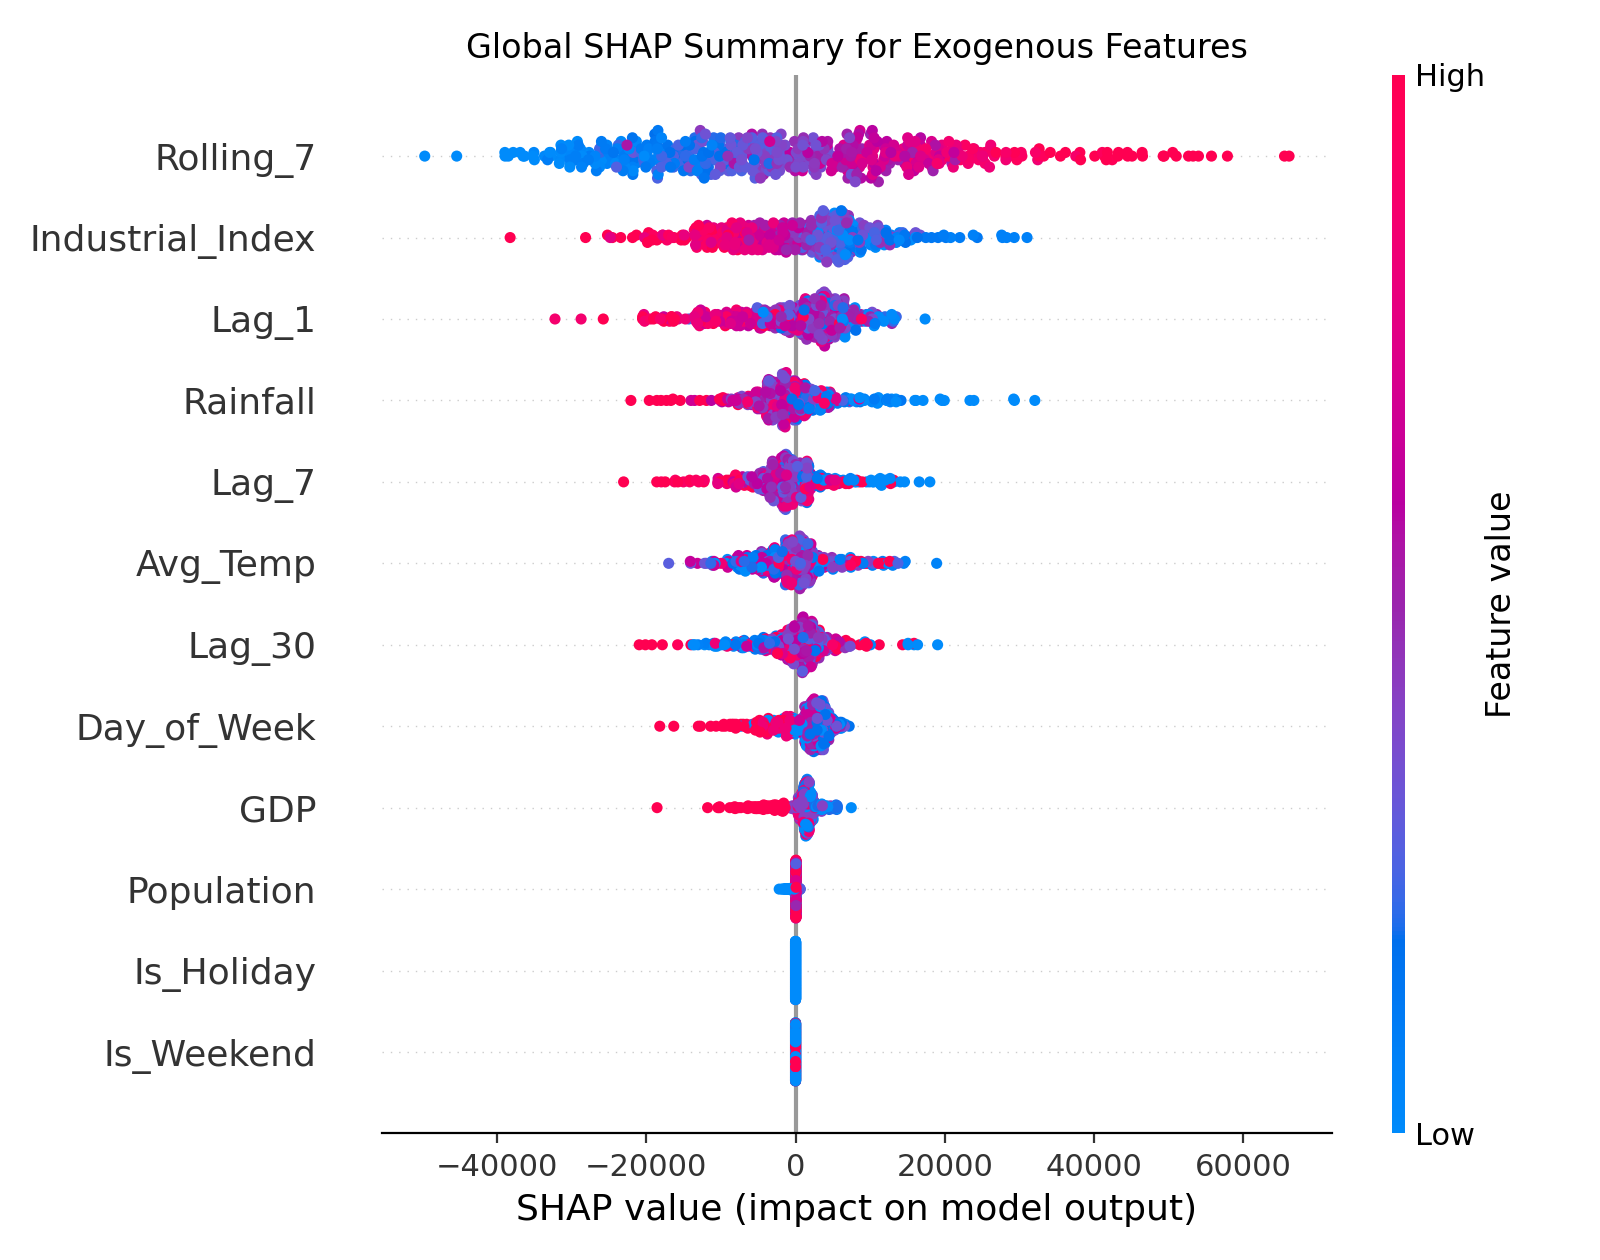
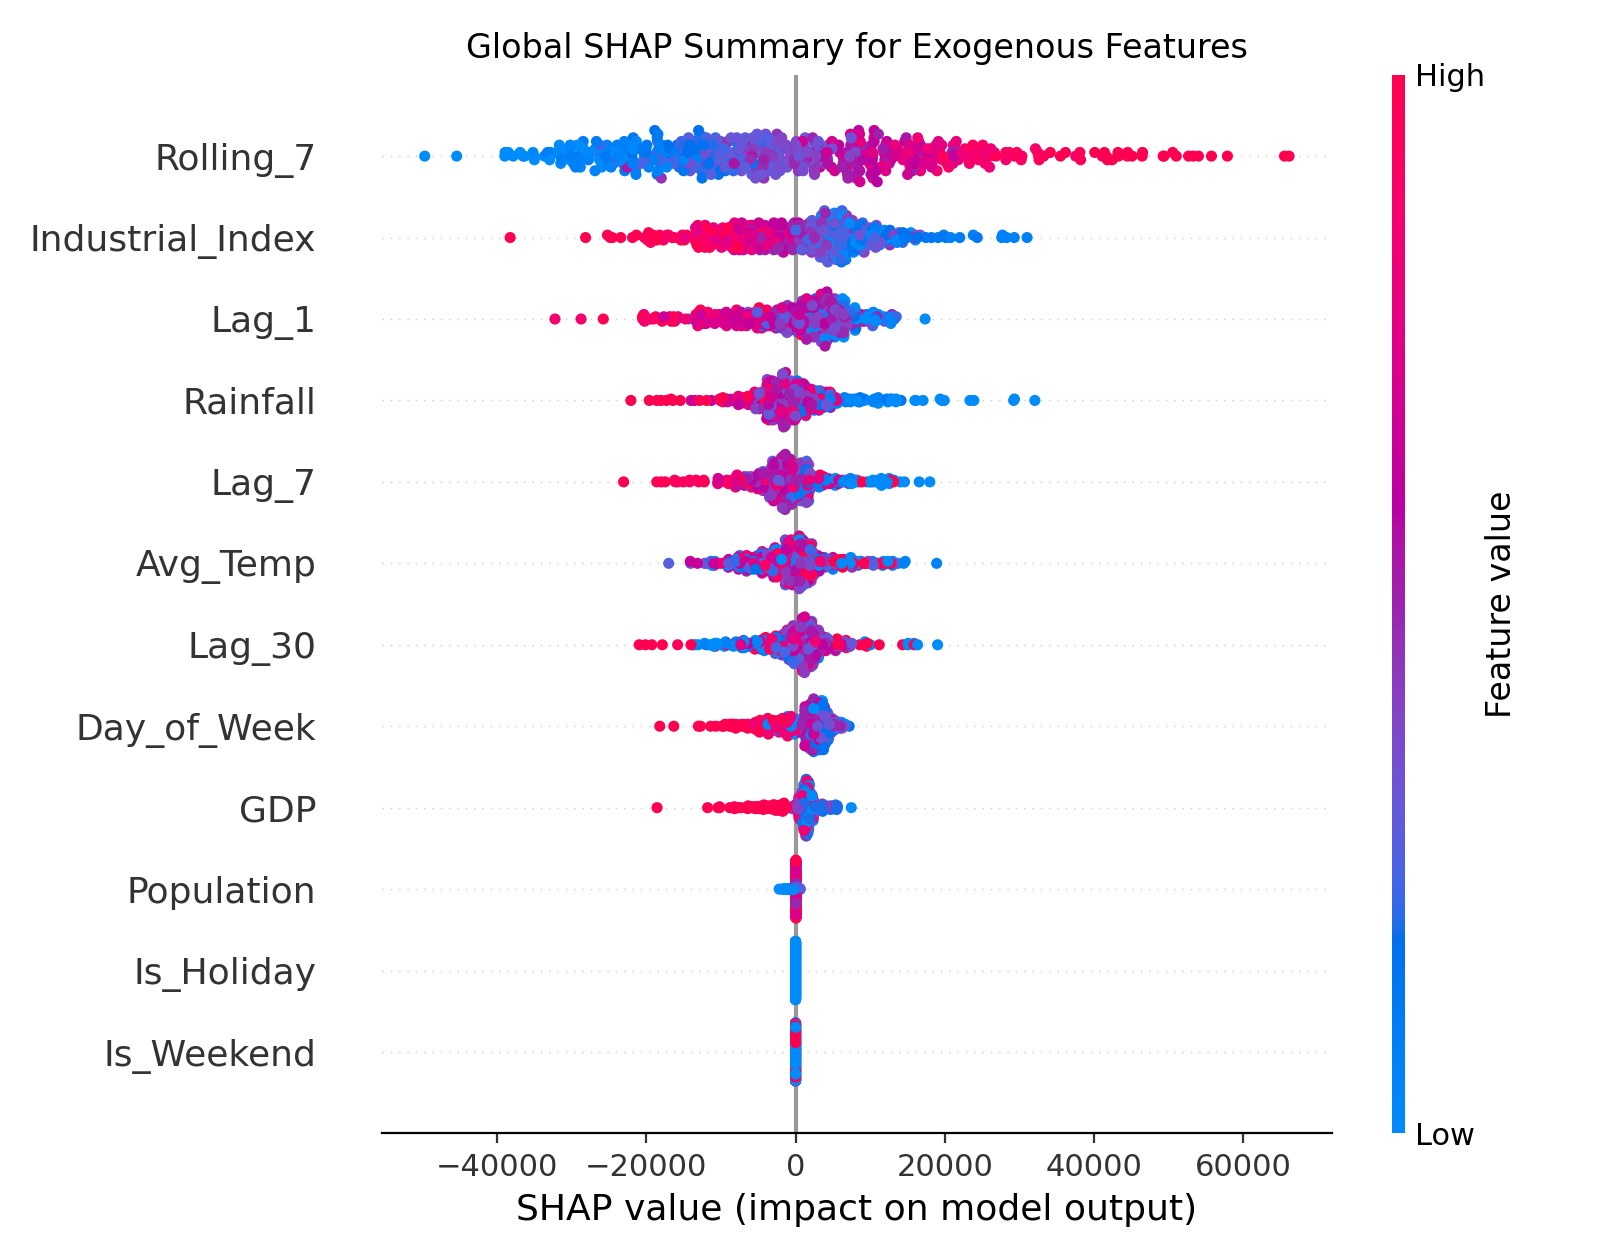
test

Changed region(s): [[0.3438, 0.0929, 0.625, 0.681], [0.4688, 0.8048, 0.5, 0.8667], [0.4688, 0.681, 0.5, 0.7119]]

diff --git a/dashboard.py b/dashboard.py
@@ -4,26 +4,18 @@ import pandas as pd
 import plotly.graph_objects as go
 import matplotlib.pyplot as plt
 import joblib
+import shap
+import holidays
 from prophet import Prophet
 
-# ==========================================
-# 1. PAGE CONFIG & ARCHITECTURE SETUP
-# ==========================================
 st.set_page_config(page_title="Electricity Demand XAI Dashboard", layout="wide")
 st.title("⚡ Grid Demand Forecasting & Anomaly Detection")
-st.markdown("""
-This dashboard demonstrates a three-tier hybrid architecture: 
-**Prophet** for structural baselines, **LightGBM** for weather/macro-driven residuals, and **Isolation Forest** for black-swan anomaly detection.
-""")
+st.markdown("*Hybrid Architecture: Prophet (Baseline) + LightGBM (Residuals) + Isolation Forest (Anomaly)*")
 
-# Setup relative paths so it runs anywhere
 script_dir = os.path.dirname(os.path.abspath(__file__))
 models_dir = os.path.join(script_dir, 'Models')
 data_path = os.path.join(script_dir, 'Outputs', 'dataset_daily_with_predictions.csv')
 
-# ==========================================
-# 2. CACHED DATA & MODEL LOADING
-# ==========================================
 @st.cache_resource
 def load_models():
     prophet_model = joblib.load(os.path.join(models_dir, 'prophet_model.joblib'))
@@ -33,7 +25,6 @@ def load_models():
 
 @st.cache_data
 def load_and_prep_data():
-    # Read the NEW file generated by the training script
     df = pd.read_csv(data_path)
     df['Date'] = pd.to_datetime(df['Date'])
     return df
@@ -45,13 +36,6 @@ except FileNotFoundError as e:
     st.error(f"Missing required file: {e}")
     st.stop()
 
-# ==========================================
-# 3. COMPONENT 1: SYSTEM VALIDATION & ANOMALIES
-# ==========================================
-st.header("1. System Validation & Anomaly Detection")
-st.markdown("*Tracking actual demand against the hybrid prediction, with Isolation Forest flagging structural grid failures.*")
-
-# The exact 12 features the IsoForest was trained on
 iso_features = [
     'Day_of_Week', 'Is_Weekend', 'Is_Holiday', 
     'Avg_Temp', 'Rainfall', 
@@ -59,51 +43,185 @@ iso_features = [
     'GDP', 'Population', 'Industrial_Index'
 ]
 
-# Ensure we only predict on rows that have all features (no NaNs from lags)
 df_clean = df.dropna(subset=iso_features + ['Demand_MWh', 'Hybrid_Prediction']).copy()
-
-# Predict Anomalies (-1 is anomaly, 1 is normal)
 df_clean['Anomaly_Score'] = iso_forest.predict(df_clean[iso_features])
-anomalies = df_clean[df_clean['Anomaly_Score'] == -1]
 
-# Build Plotly Chart
-fig_main = go.Figure()
-fig_main.add_trace(go.Scatter(x=df_clean['Date'], y=df_clean['Demand_MWh'], mode='lines', name='Actual Demand', line=dict(color='blue')))
-fig_main.add_trace(go.Scatter(x=df_clean['Date'], y=df_clean['Hybrid_Prediction'], mode='lines', name='Hybrid Prediction', line=dict(color='orange', dash='dash')))
-fig_main.add_trace(go.Scatter(
-    x=anomalies['Date'], y=anomalies['Demand_MWh'], mode='markers', name='Grid Anomaly Detected',
-    marker=dict(color='red', size=10, symbol='x', line=dict(color='black', width=1)),
-    hovertemplate="<b>Date:</b> %{x}<br><b>Demand:</b> %{y}<extra>Anomaly</extra>"
-))
-fig_main.update_layout(height=500, template='plotly_white', hovermode='x unified')
-st.plotly_chart(fig_main, use_container_width=True)
+feature_dict = {
+    'Day_of_Week': 'Siklus Hari (Day_of_Week)',
+    'Is_Weekend': 'Status Akhir Pekan (Is_Weekend)',
+    'Is_Holiday': 'Status Hari Libur (Is_Holiday)',
+    'Avg_Temp': 'Suhu Rata-Rata (Avg_Temp)',
+    'Rainfall': 'Curah Hujan (Rainfall)',
+    'Lag_1': 'Beban H-1 (Lag_1)',
+    'Lag_7': 'Beban Minggu Lalu (Lag_7)',
+    'Lag_30': 'Beban Bulan Lalu (Lag_30)',
+    'Rolling_7': 'Tren Rata-rata 7 Hari (Rolling_7)',
+    'GDP': 'Kapasitas Makroekonomi (GDP)',
+    'Population': 'Estimasi Populasi (Population)',
+    'Industrial_Index': 'Indeks Industri (Industrial_Index)'
+}
 
-st.divider()
+feature_desc = {
+    'Day_of_Week': 'Siklus operasional mingguan (Senin-Minggu) yang membedakan ritme aktivitas masyarakat.',
+    'Is_Weekend': 'Mengurangi beban dasar secara signifikan karena perkantoran dan pasar tutup.',
+    'Is_Holiday': 'Penurunan drastis beban listrik akibat libur nasional/tanggal merah secara serentak.',
+    'Avg_Temp': 'Suhu harian; suhu tinggi memicu penggunaan AC (Cooling Demand) secara masif.',
+    'Rainfall': 'Curah hujan memengaruhi visibilitas aktivitas luar ruang dan menekan suhu lokal.',
+    'Lag_1': 'Inersia konsumsi dari 1 hari sebelumnya (Efek memori jangka pendek jaringan).',
+    'Lag_7': 'Cerminan historis pola beban pada hari yang sama persis di minggu sebelumnya.',
+    'Lag_30': 'Cerminan historis pola beban pada siklus bulanan sebelumnya.',
+    'Rolling_7': 'Garis pergerakan rata-rata beban selama seminggu terakhir untuk melihat tren halus.',
+    'GDP': 'Kekuatan ekonomi makro; daya beli berbanding lurus dengan serapan energi nasional.',
+    'Population': 'Jumlah penduduk yang menentukan batas bawah beban dasar (Base-Load) residensial.',
+    'Industrial_Index': 'Tingkat aktivitas manufaktur pabrik yang mengkonsumsi listrik bervoltase tinggi.'
+}
 
-# ==========================================
-# 4. COMPONENT 2: THE STRUCTURAL BASELINE
-# ==========================================
-st.header("2. The Structural Baseline (Prophet)")
-st.markdown("*Prophet extracts the core mathematical rhythm of the grid—isolating the overall trend and weekly seasonality independently of weather.*")
+tab1, tab2 = st.tabs(["📊 Validasi Sistem (Historis)", "🔮 Future Forecaster & Local XAI"])
 
-col1, col2 = st.columns([1, 1])
+with tab1:
+    st.header("1. System Validation & Anomaly Detection")
+    anomalies = df_clean[df_clean['Anomaly_Score'] == -1]
 
-with col1:
-    df_prophet = df_clean[['Date']].rename(columns={'Date': 'ds'})
-    forecast = prophet_model.predict(df_prophet)
+    fig_main = go.Figure()
+    fig_main.add_trace(go.Scatter(x=df_clean['Date'], y=df_clean['Demand_MWh'], mode='lines', name='Actual Demand', line=dict(color='blue')))
+    fig_main.add_trace(go.Scatter(x=df_clean['Date'], y=df_clean['Hybrid_Prediction'], mode='lines', name='Hybrid Prediction', line=dict(color='orange', dash='dash')))
+    fig_main.add_trace(go.Scatter(
+        x=anomalies['Date'], y=anomalies['Demand_MWh'], mode='markers', name='Grid Anomaly Detected',
+        marker=dict(color='red', size=10, symbol='x', line=dict(color='black', width=1)),
+        hovertemplate="<b>Date:</b> %{x}<br><b>Demand:</b> %{y}<extra>Anomaly</extra>"
+    ))
+    fig_main.update_layout(height=400, template='plotly_white', hovermode='x unified')
+    st.plotly_chart(fig_main, use_container_width=True)
     
-    fig_prophet = prophet_model.plot_components(forecast)
-    st.pyplot(fig_prophet)
+    col_a, col_b = st.columns(2)
+    with col_a:
+        st.subheader("Prophet Components")
+        df_prophet = df_clean[['Date']].rename(columns={'Date': 'ds'})
+        forecast = prophet_model.predict(df_prophet)
+        fig_prophet = prophet_model.plot_components(forecast)
+        st.pyplot(fig_prophet)
+    with col_b:
+        st.subheader("Global Feature Impact")
+        try:
+            st.image("output_xai.png", use_container_width=True)
+        except Exception:
+            st.info("No output_xai.png found.")
 
-# ==========================================
-# 5. COMPONENT 3: EXOGENOUS IMPACT (SHAP)
-# ==========================================
-with col2:
-    st.header("3. Exogenous Factor Impact")
-    st.markdown("*While Prophet sets the baseline, LightGBM calculates the exact MWh impact of weather, schedules, and macroeconomics.*")
+with tab2:
+    st.header("Prediksi Masa Depan & Penjelasan Keputusan (Local XAI)")
+    st.markdown("Masukkan input kondisi lingkungan. Sistem otomatis mendeteksi hari libur nasional Indonesia untuk memperkuat presisi prediksi.")
     
-    # Displaying your pre-rendered SHAP plot is safest for live demos
-    try:
-        st.image("output_xai.png", caption="Global SHAP Summary for Exogenous Features", use_container_width=True)
-    except Exception:
-        st.info("ℹ SHAP visualization not available. Generate it by running `Scripts/hybrid_model.py` to create the XAI analysis plot.")
+    col1, col2 = st.columns(2)
+    
+    # Inisialisasi kalender Indonesia
+    id_holidays = holidays.Indonesia()
+
+    with col1:
+        target_date = st.date_input("Pilih Tanggal Prediksi", value=pd.to_datetime("2026-08-17"))
+        
+        # Auto-deteksi Libur Nasional
+        is_auto_holiday = target_date in id_holidays
+        holiday_name = id_holidays.get(target_date) if is_auto_holiday else "Hari Kerja/Biasa (Bukan Libur Nasional)"
+        
+        st.info(f"📅 **Deteksi Sistem Kalender:** {holiday_name}")
+        
+        # Opsi override untuk What-If Scenario
+        is_holiday_override = st.checkbox("Paksa hitung sebagai Hari Libur Nasional (Simulasi Manual)", value=is_auto_holiday)
+        is_holiday = 1 if is_holiday_override else 0
+
+    with col2:
+        # Mengubah Slider menjadi Number Input agar bisa diketik langsung
+        avg_temp = st.number_input("Input Suhu Udara (°C)", min_value=15.0, max_value=45.0, value=28.0, step=0.1, format="%.1f")
+        rainfall = st.number_input("Input Curah Hujan (mm)", min_value=0.0, max_value=300.0, value=5.0, step=1.0, format="%.1f")
+        
+    if st.button("Jalankan Prediksi AI 🚀", use_container_width=True):
+        day_of_week = target_date.weekday()
+        is_weekend = 1 if day_of_week >= 5 else 0
+        
+        last_known_data = df_clean.iloc[-1]
+        
+        custom_data = pd.DataFrame({
+            'Day_of_Week': [day_of_week],
+            'Is_Weekend': [is_weekend],
+            'Is_Holiday': [is_holiday],
+            'Avg_Temp': [avg_temp],
+            'Rainfall': [rainfall],
+            'Lag_1': [last_known_data['Demand_MWh']], 
+            'Lag_7': [last_known_data['Lag_7']], 
+            'Lag_30': [last_known_data['Lag_30']],
+            'Rolling_7': [last_known_data['Rolling_7']],
+            'GDP': [last_known_data['GDP']],
+            'Population': [last_known_data['Population']],
+            'Industrial_Index': [last_known_data['Industrial_Index']]
+        }).astype(float)
+        
+        prophet_df = pd.DataFrame({'ds': [pd.to_datetime(target_date)]})
+        base_demand = prophet_model.predict(prophet_df)['yhat'].values[0]
+        weather_residual = lgbm_model.predict(custom_data)[0]
+        final_demand = base_demand + weather_residual
+        anomaly_flag = iso_forest.predict(custom_data)[0]
+        
+        explainer = shap.TreeExplainer(lgbm_model)
+        shap_vals = explainer.shap_values(custom_data)[0]
+        
+        feature_impacts = list(zip(iso_features, shap_vals))
+        feature_impacts.sort(key=lambda x: abs(x[1]), reverse=True)
+        top_3_impacts = feature_impacts[:3]
+        
+        st.divider()
+        st.success(f"### ⚡ Hasil Prediksi: {final_demand:,.0f} MWh")
+        st.write(f"*(Baseline Tren: {base_demand:,.0f} MWh | Penyesuaian AI: {weather_residual:+,.0f} MWh)*")
+        
+        if anomaly_flag == -1:
+            st.error("🚨 **Peringatan:** Kombinasi fitur pada hari ini terdeteksi sebagai Anomali Jaringan ekstrem (Black-Swan Event).")
+            
+        st.subheader("1. Narasi Eksekutif (Top 3 Faktor Penentu)")
+        status_arah = "TINGGI" if final_demand > base_demand else "RENDAH"
+        st.markdown(f"Pada tanggal **{target_date.strftime('%d %B %Y')}**, prediksi model lebih **{status_arah}** dibandingkan tren baseline. 3 pendorong utamanya adalah:")
+        
+        for i, (feat, impact) in enumerate(top_3_impacts):
+            direction_text = "Meningkatkan Prediksi (Positif 📈)" if impact > 0 else "Menurunkan Prediksi (Negatif 📉)"
+            st.markdown(f"**{i+1}. {feature_dict.get(feat, feat)}** ➔ {direction_text} berdampak **{abs(impact):,.0f} MWh**.")
+
+        st.subheader("2. Grafik Analisis Dampak (Local SHAP Plot)")
+        plot_data = sorted(feature_impacts, key=lambda x: x[1])
+        colors = ['#EF553B' if val < 0 else '#00CC96' for feat, val in plot_data]
+        
+        fig_local = go.Figure(go.Bar(
+            x=[val for feat, val in plot_data],
+            y=[feature_dict.get(feat, feat) for feat, val in plot_data],
+            orientation='h',
+            marker_color=colors,
+            text=[f"{val:+,.0f}" for feat, val in plot_data],
+            textposition='auto'
+        ))
+        fig_local.update_layout(
+            title="Seberapa Besar Setiap Variabel Mengubah Prediksi Hari Ini?",
+            xaxis_title="Dampak terhadap Prediksi (MWh)",
+            template='plotly_white',
+            height=400,
+            margin=dict(l=0, r=0, t=40, b=0)
+        )
+        st.plotly_chart(fig_local, use_container_width=True)
+
+        st.subheader("3. Rincian Lengkap Variabel, Nilai Input, dan Artinya")
+        explanation_data = []
+        for feat, impact in feature_impacts:
+            actual_val = custom_data[feat].values[0]
+            
+            if feat == 'Avg_Temp': val_str = f"{actual_val:.1f} °C"
+            elif feat in ['Is_Holiday', 'Is_Weekend']: val_str = "Ya" if actual_val == 1 else "Tidak"
+            elif feat == 'Rainfall': val_str = f"{actual_val:.1f} mm"
+            elif feat == 'Day_of_Week': 
+                days = ["Senin", "Selasa", "Rabu", "Kamis", "Jumat", "Sabtu", "Minggu"]
+                val_str = days[int(actual_val)]
+            else: val_str = f"{actual_val:,.0f}"
+            
+            explanation_data.append({
+                "Variabel": feature_dict.get(feat, feat),
+                "Nilai Aktual Hari Ini": val_str,
+                "Dampak AI (MWh)": f"{impact:+,.0f}",
+                "Arti & Efek Fisiknya": feature_desc.get(feat, "")
+            })
+            
+        st.table(pd.DataFrame(explanation_data))
